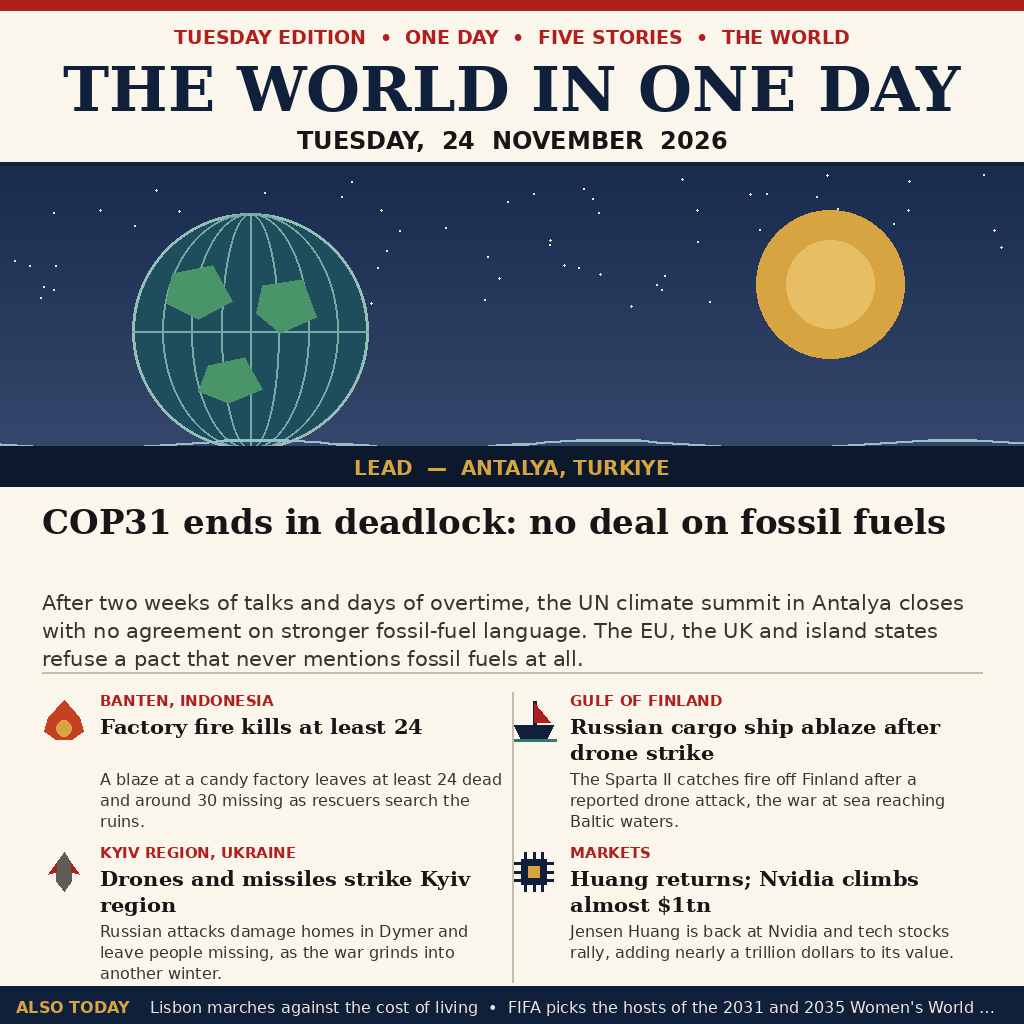
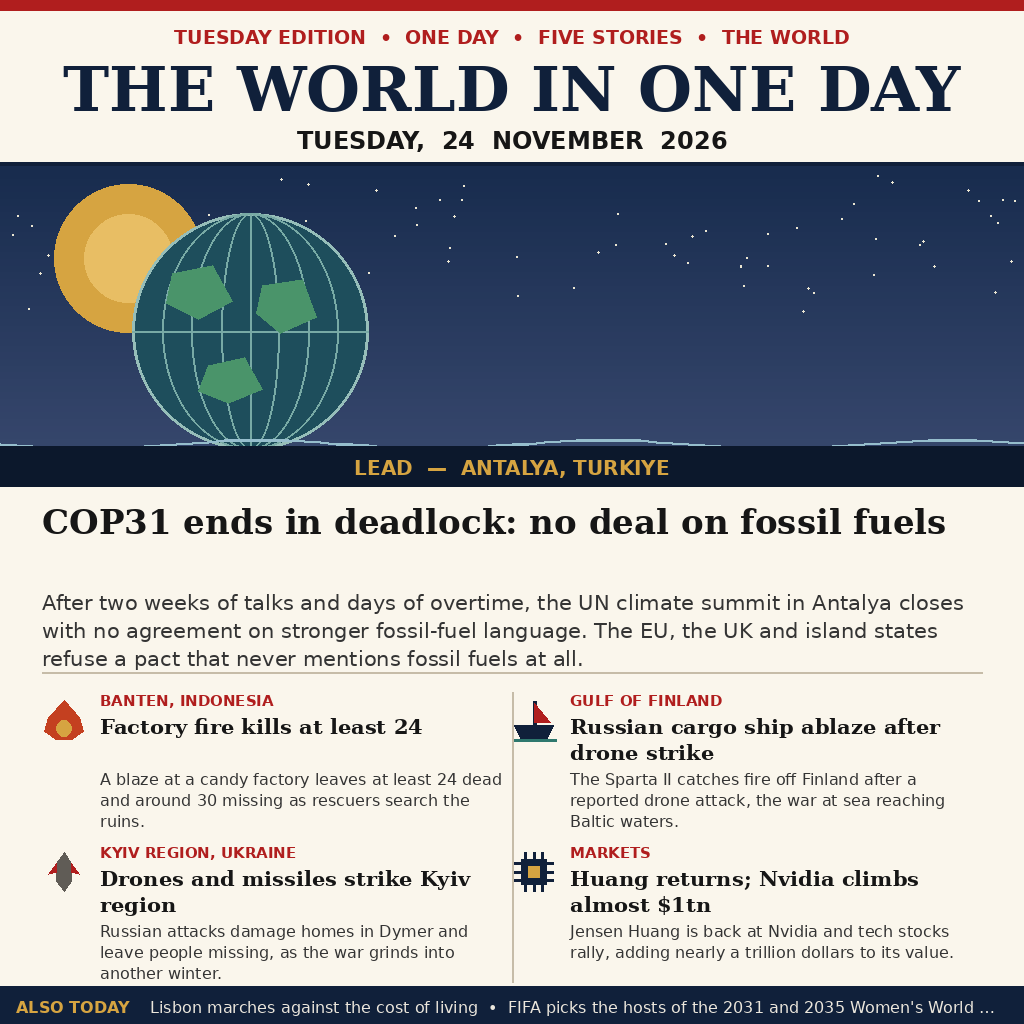
Rebuild in post-opening session: seed 24112026, sun moved to left of hero
Re-authored main.py in a session started after the 24 Nov 2026 00:00Z
opening so the entry is submittable (thinking_in_window fix). New seed
24112026 and the hero sun moved from the right to the left of the panel;
entry.png is byte-different from the pre-opening build and byte-identical
across two runs (102569 bytes, 1024x1024, sha256 fc900090...).

Changed region(s): [[0.7188, 0.1875, 0.9062, 0.375], [0.0312, 0.1562, 0.1875, 0.3438]]

diff --git a/main.py b/main.py
@@ -36,7 +36,7 @@ from PIL import Image, ImageDraw, ImageFont
 
 SLUG = "news-image-20261124"
 DAY_LABEL = "TUESDAY,  24  NOVEMBER  2026"
-SEED = 20261124
+SEED = 24112026
 OUT_DIR = "/output"
 OUT_NAME = "entry.png"
 W, H = 1024, 1024
@@ -53,6 +53,10 @@ TEAL = (46, 120, 110)
 GREY = (96, 92, 86)
 RULE = (198, 188, 168)
 SEA = (28, 68, 96)
+
+# Hero sun position, rebuilt in this session: the sun now sets on the
+# left of the panel (was on the right), low over the sea.
+SUN_CX, SUN_CY = 128, 92
 
 LEAD = {
     "kicker": "ANTALYA, TURKIYE",
@@ -164,8 +168,7 @@ def wrap_text(draw, text, font, max_width):
 def fit_ticker(draw, text, font, max_width):
     """Trim the ticker word by word until it fits one line, ending in ..."""
     while draw.textlength(text, font=font) > max_width and " " in text:
-        if text.endswith(" \u2026"):
-            text = text[:-2].rstrip()
+        text = text.rstrip(" \u2026")
         text = text.rsplit(" ", 1)[0].rstrip(" \u2022")
         text += " \u2026"
     return text
@@ -195,8 +198,8 @@ def paint_hero(draw, box, rng):
         sy = rng.randint(y0 + 8, y0 + 150)
         s = rng.choice((1, 1, 2))
         draw.ellipse([sx, sy, sx + s, sy + s], fill=(235, 230, 210))
-    # Golden sun, low over the sea.
-    cx, cy = x0 + 830, y0 + 118
+    # Golden sun, low over the sea on the left of the panel.
+    cx, cy = x0 + SUN_CX, y0 + SUN_CY
     for rad, col in ((74, (214, 164, 65, 60)), (58, GOLD), (44, (232, 190, 100))):
         draw.ellipse([cx - rad, cy - rad, cx + rad, cy + rad], fill=col)
     # Globe: deep teal disc, meridian ellipses, abstract continents.
